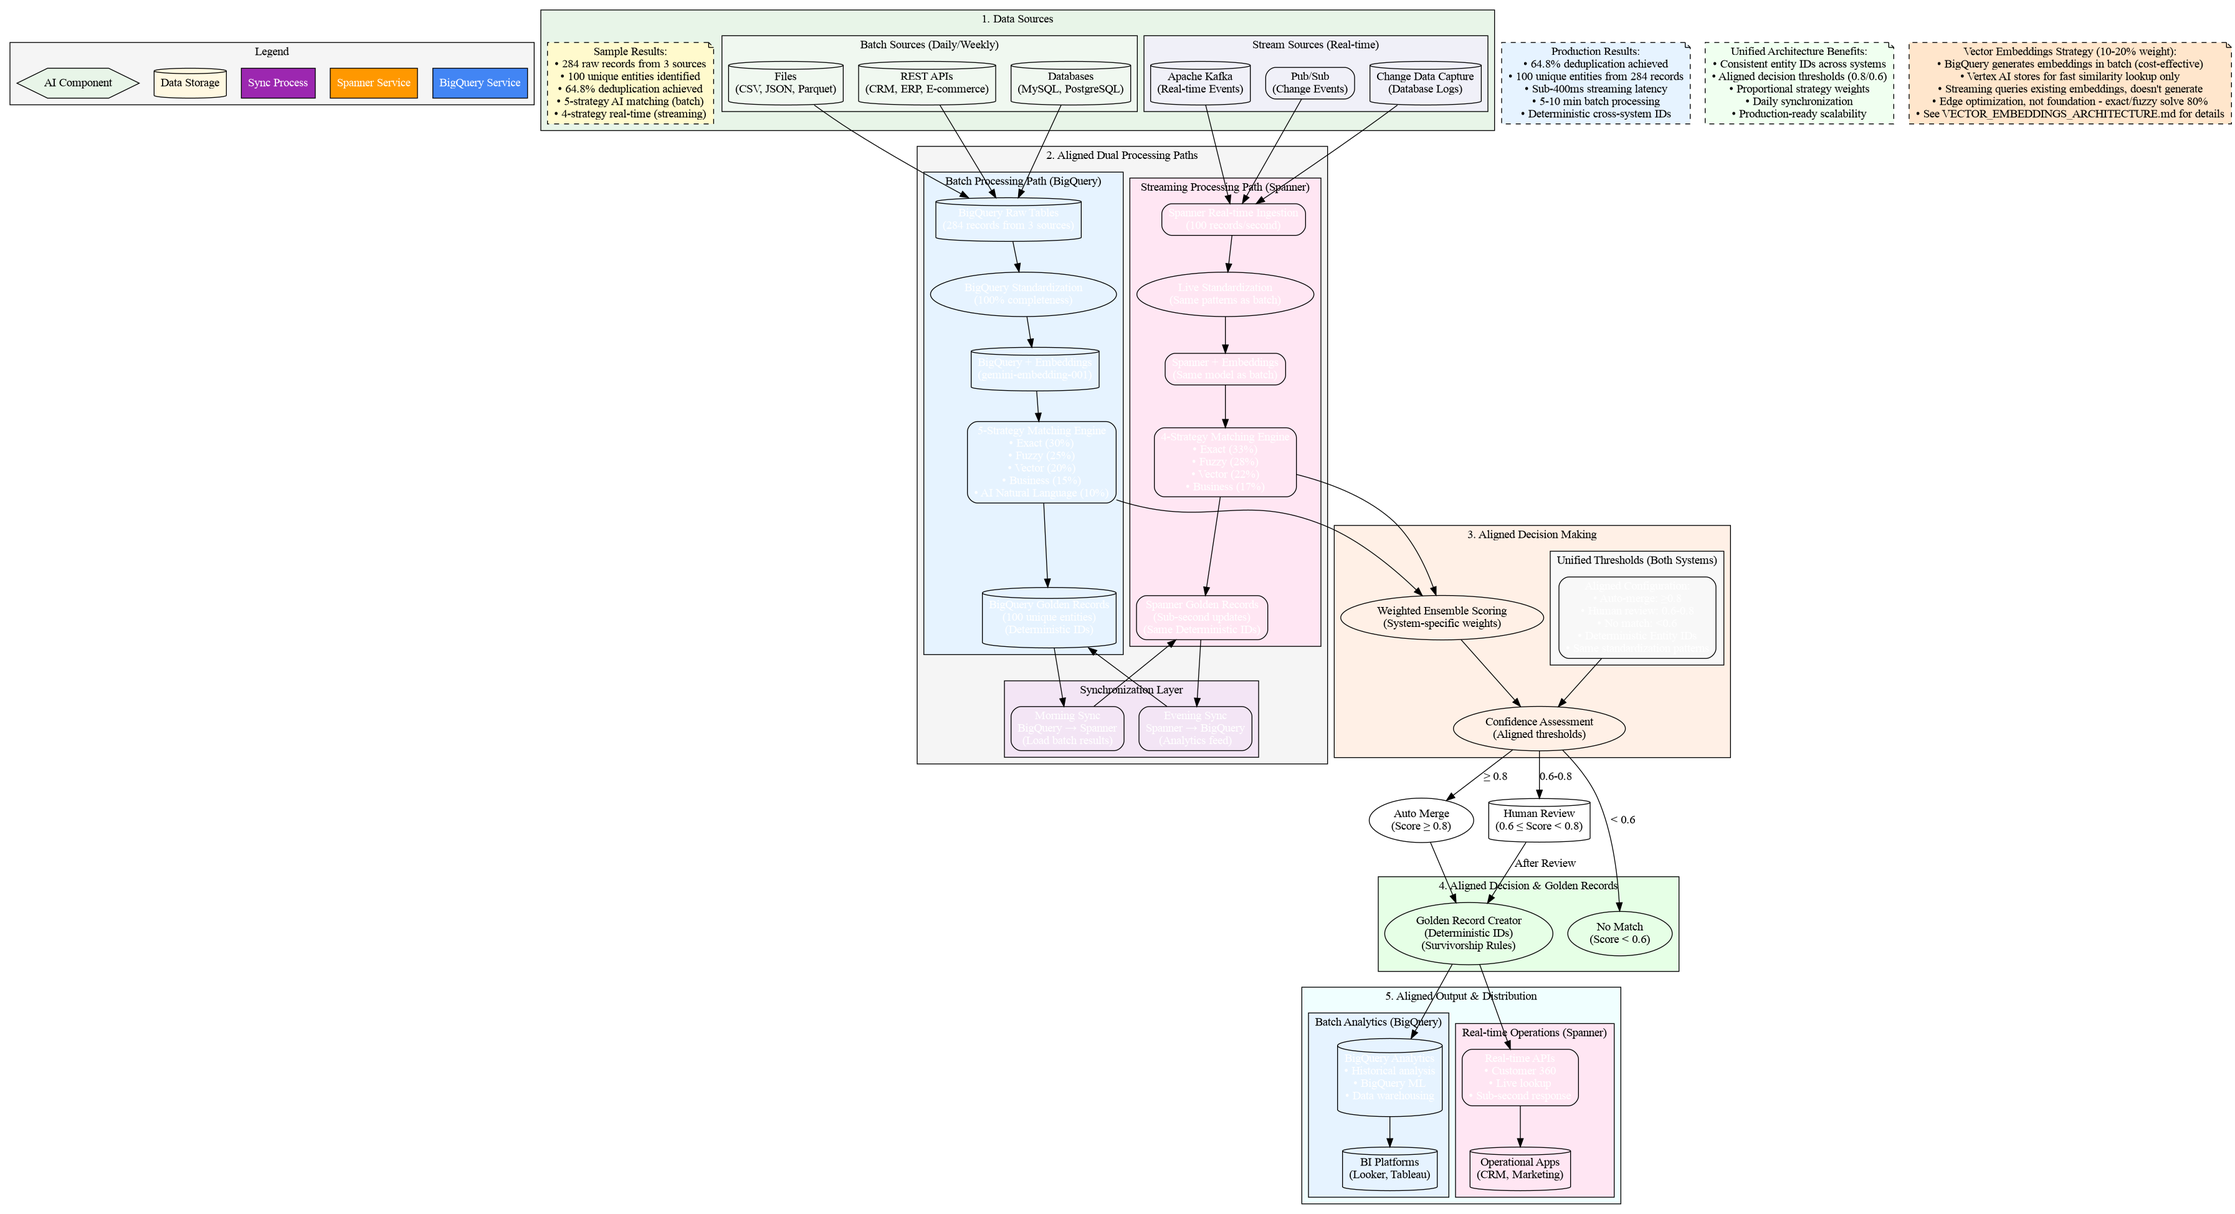
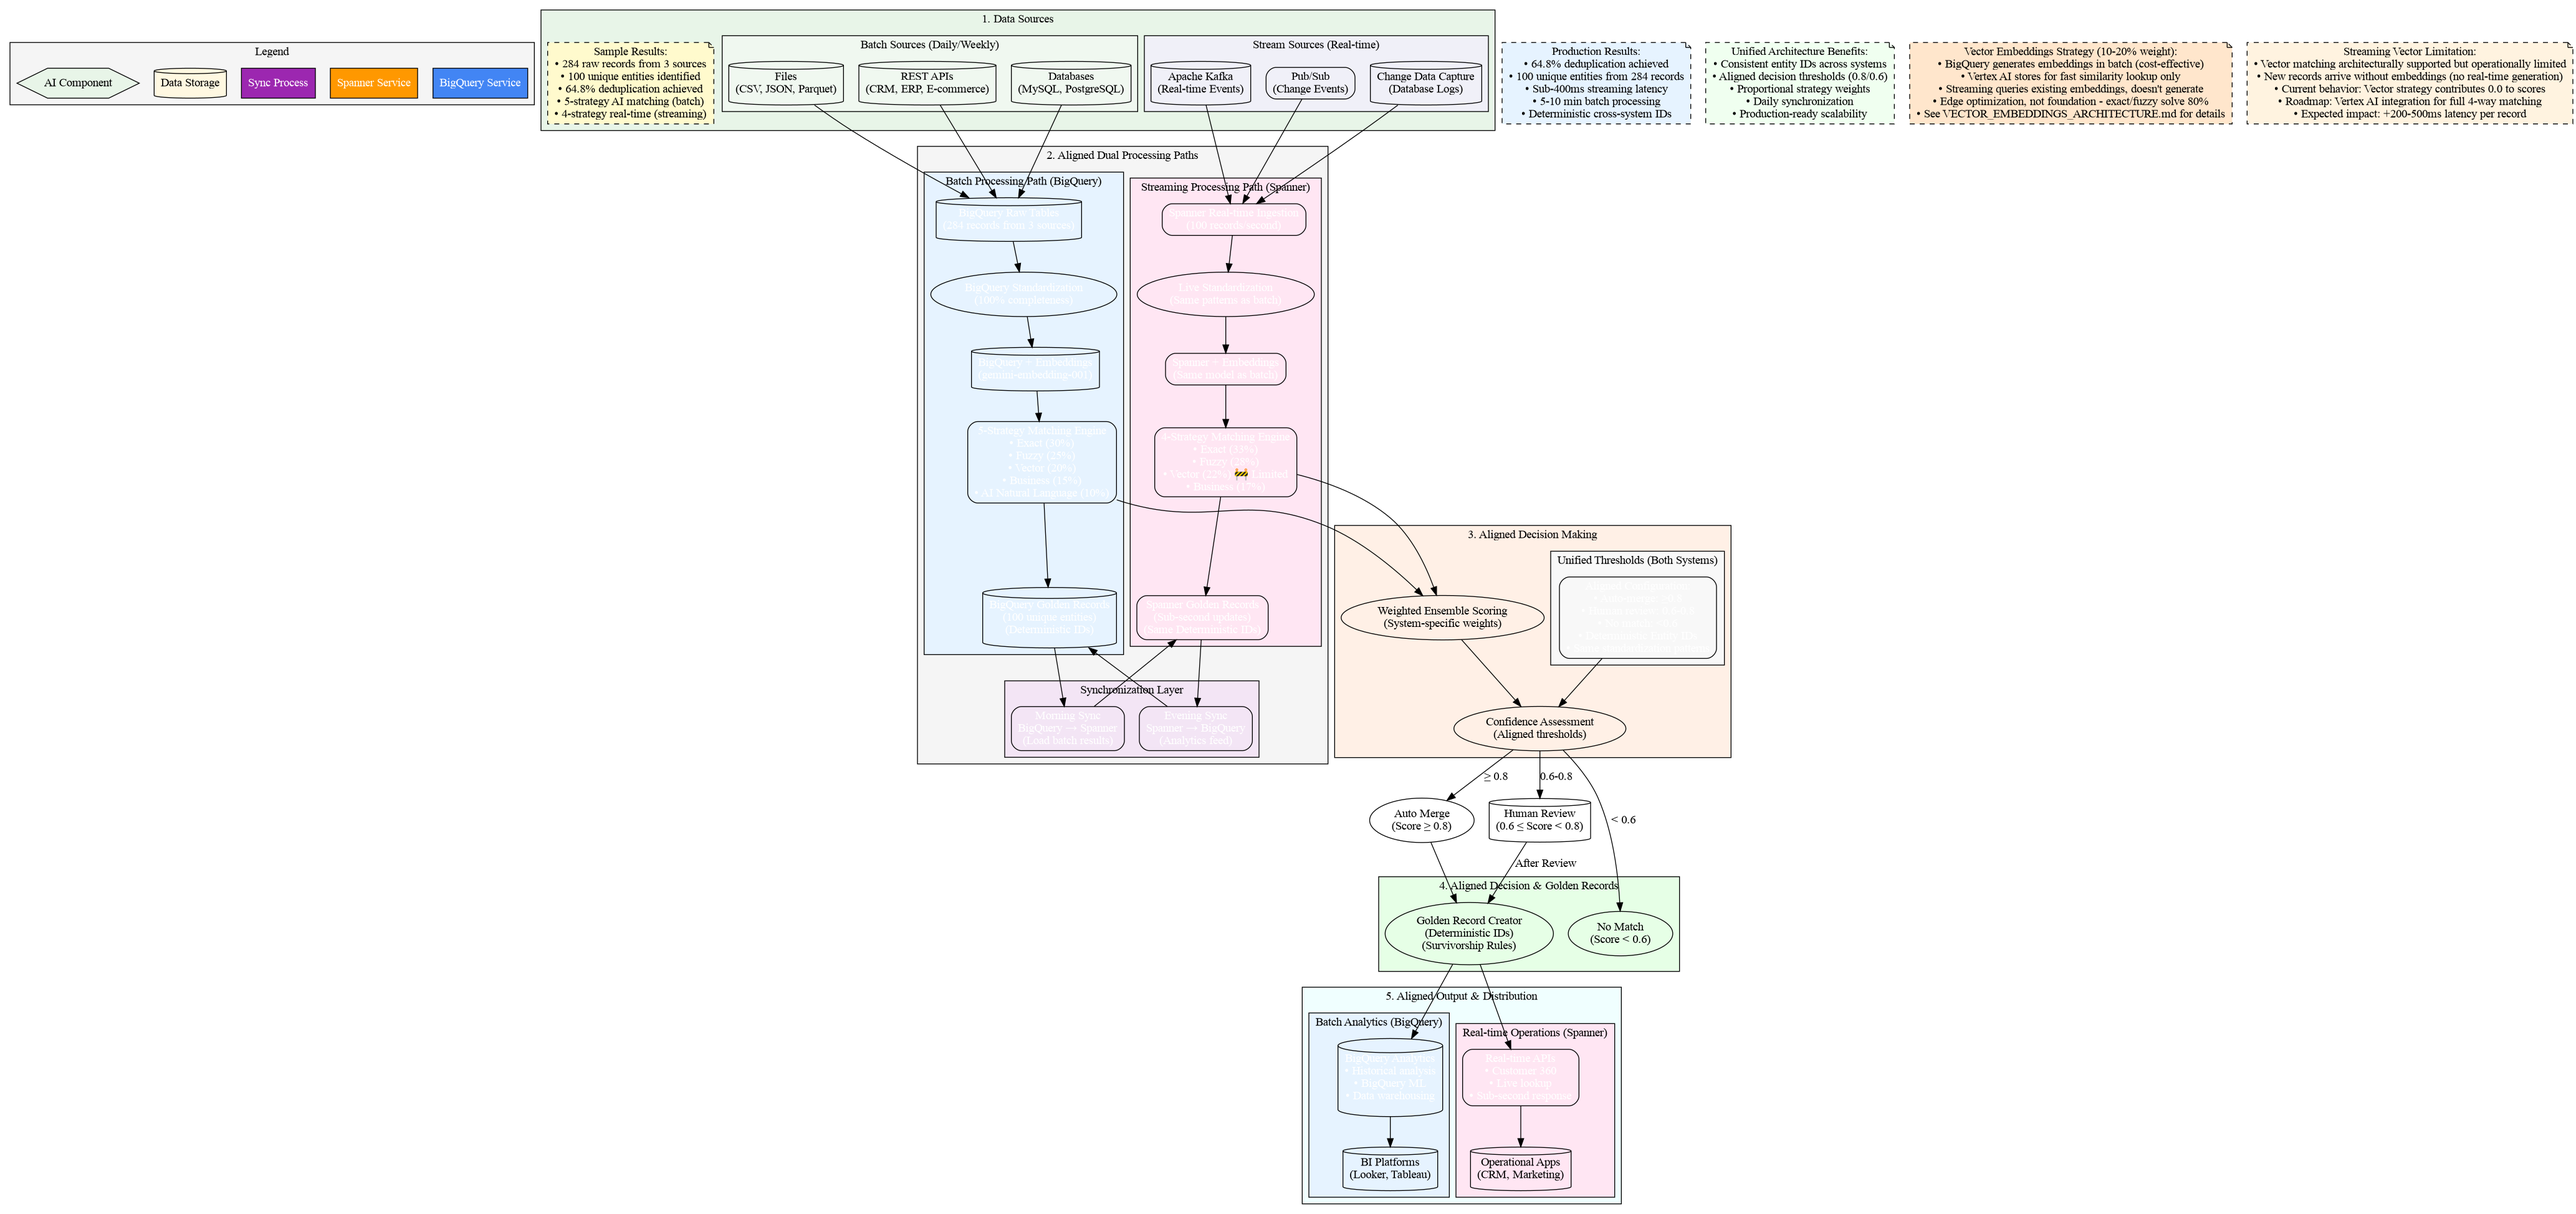
some code cleanups

Changed region(s): [[0.3435, 0.1232, 0.7806, 1.0], [0.0, 0.0308, 0.9992, 0.1232]]

diff --git a/streaming_mdm_gcp/streaming_processor.py b/streaming_mdm_gcp/streaming_processor.py
@@ -194,10 +194,22 @@ class StreamingMDMProcessor:
         return max(0.0, similarity)
 
     def find_vector_matches(self, record: Dict[str, Any], embedding: List[float]) -> List[Tuple[str, float, str]]:
-        """Find vector similarity matches using existing embeddings only"""
+        """
+        Find vector similarity matches using existing embeddings only
+
+        🚧 CURRENT LIMITATION: Vector matching is architecturally supported but operationally
+        limited due to lack of real-time embedding generation for new streaming records.
+
+        📋 ROADMAP: Full 4-way matching will be enabled when Vertex AI integration is added
+        for on-the-fly embedding generation (+200-500ms latency cost per record).
+
+        Current behavior: Always returns empty for new streaming records (no embeddings).
+        """
         # Skip vector matching if no embedding provided (streaming records don't generate embeddings)
         if not embedding:
-            print(f"  🧮 Vector matching: Skipped (no embedding for streaming record)")
+            print(
+                f"  🧮 Vector matching: Deferred (real-time embedding generation pending)")
+            print(f"  📋 Note: Full 4-way matching requires Vertex AI integration")
             return []
 
         try:

diff --git a/VECTOR_EMBEDDINGS_ARCHITECTURE.md b/VECTOR_EMBEDDINGS_ARCHITECTURE.md
@@ -188,12 +188,40 @@ The Spanner-native approach provides the optimal balance of simplicity, performa
 
 ## 🔄 **Streaming MDM with Traditional 4-Way Matching**
 
-### **🎯 Simplified Streaming Architecture**
+### **🚧 Current Streaming Limitations**
 
-For streaming MDM, we use a straightforward **traditional 4-way matching** approach that balances simplicity with effectiveness.
+**Important**: The current streaming implementation has a **vector matching limitation** that affects the 4-way strategy:
+
+#### **Current Reality:**
+- ✅ **Exact Matching**: Fully operational (email/phone indexes)
+- ✅ **Fuzzy Matching**: Fully operational (name/address similarity)
+- 🚧 **Vector Matching**: **Architecturally supported but operationally limited**
+- ✅ **Business Rules**: Fully operational (company/location logic)
+
+**Root Cause**: New streaming records arrive **without embeddings**, and the system doesn't generate them in real-time.
+
+#### **Impact on Scoring:**
+- **Intended Weights**: Exact 33.3%, Fuzzy 27.8%, Vector 22.2%, Business 16.7%
+- **Effective Weights**: Vector always contributes 0.0, reducing total score space to ~78%
+- **Workaround**: Other strategies compensate, but vector insights are lost
+
+### **📋 Roadmap: Full 4-Way Implementation**
+
+**Phase 1: Current (3.x-Way Effective)**
+- Exact + Fuzzy + Business rules working
+- Vector matching deferred
+
+**Phase 2: Future (True 4-Way)**
+- Add Vertex AI integration for real-time embedding generation
+- Expected latency impact: +200-500ms per record
+- Cost impact: ~$0.10-0.50 per 1K records
+
+### **🎯 Current Streaming Architecture**
+
+Despite the vector limitation, the streaming system provides effective entity resolution:
 
 #### **The Core Approach:**
-- **Run all 4 strategies** for every streaming record
+- **Run all 4 strategies** for every streaming record (vector returns empty)
 - **Immediate golden record creation** in Spanner for real-time use
 - **Stage all new entities** for future batch processing enhancement
 

diff --git a/README.md b/README.md
@@ -83,10 +83,12 @@ Exact and fuzzy matching solve 80% of problems at 1% of the cost.
 - 🤖 **AI Natural Language** (10%) - Gemini 2.5 Pro reasoning
 
 ### **4-Strategy Real-time Matching (Streaming)**
-- ⚡ **Exact Matching** (33%) - Proportionally adjusted
-- 🔍 **Fuzzy Matching** (28%) - Real-time string similarity
-- 🧮 **Vector Matching** (22%) - Cached embeddings
-- 📋 **Business Rules** (17%) - Low-latency rules
+- ⚡ **Exact Matching** (33.3%) - Email, phone, ID lookups
+- 🔍 **Fuzzy Matching** (27.8%) - Real-time string similarity
+- 🧮 **Vector Matching** (22.2%) - 🚧 *Currently limited (requires Vertex AI integration)*
+- 📋 **Business Rules** (16.7%) - Company/location logic
+
+**Note**: Vector matching is architecturally supported but operationally limited due to lack of real-time embedding generation. Full 4-way matching will be enabled when Vertex AI integration is added (+200-500ms latency cost).
 
 ### **Unified Configuration**
 - 🎯 **Aligned Thresholds** - Auto-merge: ≥0.8, Human review: 0.6-0.8
